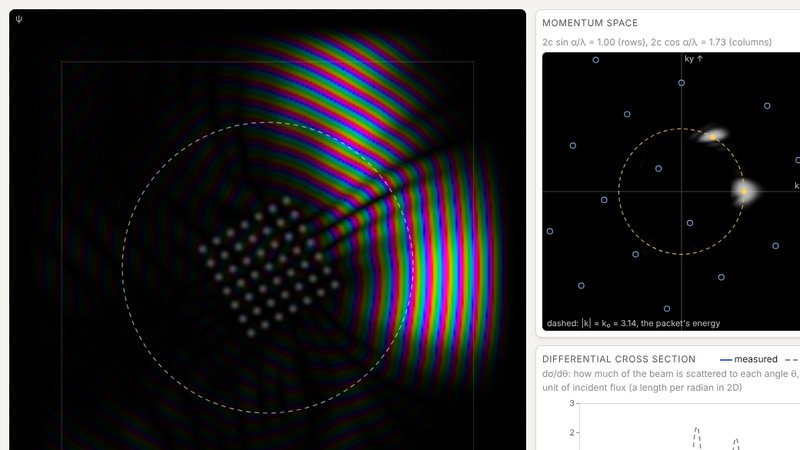
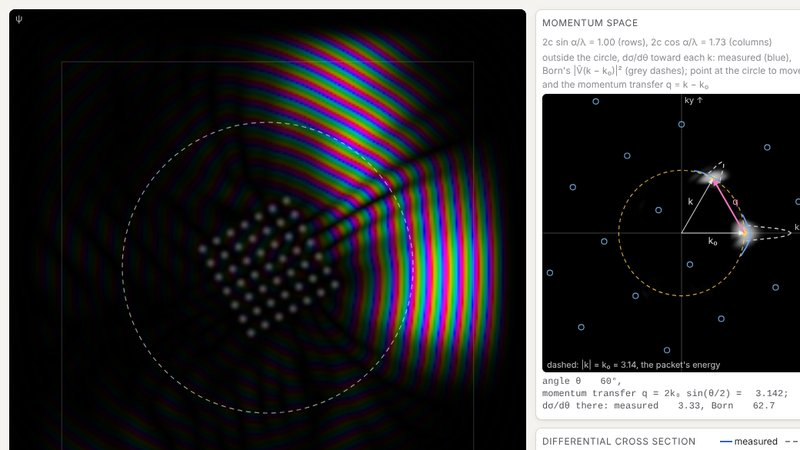
Scattering in 2D: still pictures of the fourteen experiments, and the card remade
Each picture is brought to its moment by __app.runUntil(), the simulation's own steps, not the
clock: the wave pictures (the disk, its shadow, the resonance holding its m = 3 wave, the
double slit, the impact parameter, the typed target) part way through the collision; the
cross-section plots (twice the classical cross section, Born, Coulomb, two disks, the slow
packet with its partial waves) once the packet has gone; the momentum panel (the ring with
Born's curve and q, the crystal's arrow ending on the Bragg beam, and off the Bragg angle
falling short) mid-run.  Fourteen pictures, 9 to 38 kB, 260 kB in all.  The card picture,
from #setup=crystal, now shows the momentum transfer to the Bragg beam.

Claude-Session: https://claude.ai/code/session_01Uf588EmEoW67UxQKckEGyR

diff --git a/schrodinger2d/index.html b/schrodinger2d/index.html
@@ -99,7 +99,7 @@
     Bragg reflection.</p>
   </section>
 
-  <article class="exp" data-setup="disk">
+  <article class="exp" data-setup="disk" data-frame="672x672">
     <h3>1. A packet meets a disk</h3>
     <p>The packet comes in from the left, moving along $x$, nearly a plane wave across the
     disk.  Watch the reflected crescent and the circular wave spreading from the disk.  Switch
@@ -119,7 +119,7 @@
     the blue curve lies on the exact one (green).</p>
   </article>
 
-  <article class="exp" data-setup="shadow">
+  <article class="exp" data-setup="shadow" data-frame="672x672">
     <h3>2. The shadow is the optical theorem</h3>
     <p>Behind the disk, a shadow.  In the <em>Scattered only</em> view the shadow is a wave
     scattered straight forward, opposite in phase to the incident one, so that the two cancel
@@ -133,7 +133,7 @@
     partial waves (experiment 6).</p>
   </article>
 
-  <article class="exp" data-setup="classical">
+  <article class="exp" data-setup="classical" data-frame="380x358">
     <h3>3. Twice the classical cross section</h3>
     <p>A bigger and harder disk ($a=2.5$, a wall $V_0=15$ high and $w=0.15$ soft) and a
     shorter wave ($k_0=3$, $\lambda=2.1$), so that the disk is eight wavelengths round
@@ -154,7 +154,7 @@
     experiment 1, 2.2 here).</p>
   </article>
 
-  <article class="exp" data-setup="born">
+  <article class="exp" data-setup="born" data-frame="380x331">
     <h3>4. The Born approximation</h3>
     <p>A smooth bump, $V_0=1$, half the packet's energy $E=2$: about a sixth of the packet
     (18%) is scattered, nearly all of it (96%) within $60^\circ$ of forward.  To first order in
@@ -183,7 +183,7 @@
     at $180^\circ$ against 0.73).</p>
   </article>
 
-  <article class="exp" data-setup="ring">
+  <article class="exp" data-setup="ring" data-frame="380x508">
     <h3>5. Scattering puts the wave on a circle</h3>
     <p>The same bump, in the <em>Scattered only</em> view, so that momentum space shows
     $\psi-\psi_\text{inc}$ alone.  The incident packet is a spot at $(k_0,0)$; the scattering
@@ -205,7 +205,7 @@
     Gaussian, and the second-order terms that Born leaves out fall more slowly.</p>
   </article>
 
-  <article class="exp" data-setup="swave">
+  <article class="exp" data-setup="swave" data-frame="380x606">
     <h3>6. Partial waves: slow particles scatter in all directions</h3>
     <p>A small hard disk and a slow packet, $ka\approx1$ (here 0.8), in a bigger box, since
     slow waves are long.  A <em>partial wave</em> is the part of the wave with angular momentum
@@ -226,7 +226,7 @@
     come out (probability conserved: <em>unitarity</em>), as a check on the measurement.</p>
   </article>
 
-  <article class="exp" data-setup="resonance">
+  <article class="exp" data-setup="resonance" data-frame="672x672">
     <h3>7. A resonance: the packet lingers</h3>
     <p>An attractive well, with a quasi-bound state near the packet's energy: a state that
     would be bound if the well were a little deeper, and that lives for a while behind the
@@ -240,7 +240,7 @@
     stopped before then, the dots $|S_{\pm3}|$ fall short of 1 by what is still inside.</p>
   </article>
 
-  <article class="exp" data-setup="coulomb">
+  <article class="exp" data-setup="coulomb" data-frame="380x331">
     <h3>8. A screened Coulomb potential</h3>
     <p>Charge scattering: strongly peaked forward and falling off steeply with angle, as
     Rutherford found (his $1/\sin^4(\theta/2)$ law is for three dimensions).  Most of the
@@ -258,7 +258,7 @@
     circle.</p>
   </article>
 
-  <article class="exp" data-setup="two">
+  <article class="exp" data-setup="two" data-frame="380x306">
     <h3>9. Two scatterers interfere</h3>
     <p>Two disks, a distance $d$ apart across the beam.  The waves scattered by each
     interfere, and $d\sigma/d\theta$ has fringes spaced by about $\lambda/d$ in angle
@@ -268,7 +268,7 @@
     shifts.</p>
   </article>
 
-  <article class="exp" data-setup="slits">
+  <article class="exp" data-setup="slits" data-frame="672x672">
     <h3>10. The double slit</h3>
     <p>A wall with two openings, $a=1.2$ wide and $d=5$ apart.  Behind it, two circular waves
     overlap and make fringes.  There is no incident wave behind a wall to subtract, so the graph
@@ -290,7 +290,7 @@
     narrower ($a$) and the envelope spreads.</p>
   </article>
 
-  <article class="exp" data-setup="crystal">
+  <article class="exp" data-setup="crystal" data-frame="380x533">
     <h3>11. Bragg reflection from a crystal</h3>
     <p>A square crystal of $7\times7$ atoms, $c=2$ apart, turned by $\alpha=30^\circ$, in a beam
     of wavelength $\lambda=2$.  Each row of atoms reflects a little of the wave, like a
@@ -307,7 +307,7 @@
     Born's curve is the crystal's Fourier transform, the kinematic theory of diffraction.</p>
   </article>
 
-  <article class="exp" data-setup="offbragg">
+  <article class="exp" data-setup="offbragg" data-frame="380x533">
     <h3>12. Off the Bragg angle</h3>
     <p>The same crystal turned to $\alpha=20^\circ$: $2c\sin\alpha/\lambda=0.68$, no lattice
     point on the energy circle, and the beam mostly goes through; a sixth as much goes to
@@ -321,7 +321,7 @@
     reflect, $2c\cos\alpha=\lambda$, to $-60^\circ$.</p>
   </article>
 
-  <article class="exp" data-setup="impact">
+  <article class="exp" data-setup="impact" data-frame="672x672">
     <h3>13. The impact parameter</h3>
     <p>A narrow packet aimed off centre, with <em>impact parameter</em> $b$: how far from the
     centre it would pass if nothing deflected it.  Large $b$: it passes by, barely deflected.
@@ -329,7 +329,7 @@
     wave's spreads, the more so the narrower the packet.</p>
   </article>
 
-  <article class="exp" data-setup="typed">
+  <article class="exp" data-setup="typed" data-frame="672x672">
     <h3>14. Your own target</h3>
     <p>Type any $V(x,y)$, using $x$, $y$, $r$ and $\theta$.  Sharp edges are softened slightly
     (an edge sharper than the grid can't be followed in time).</p>
